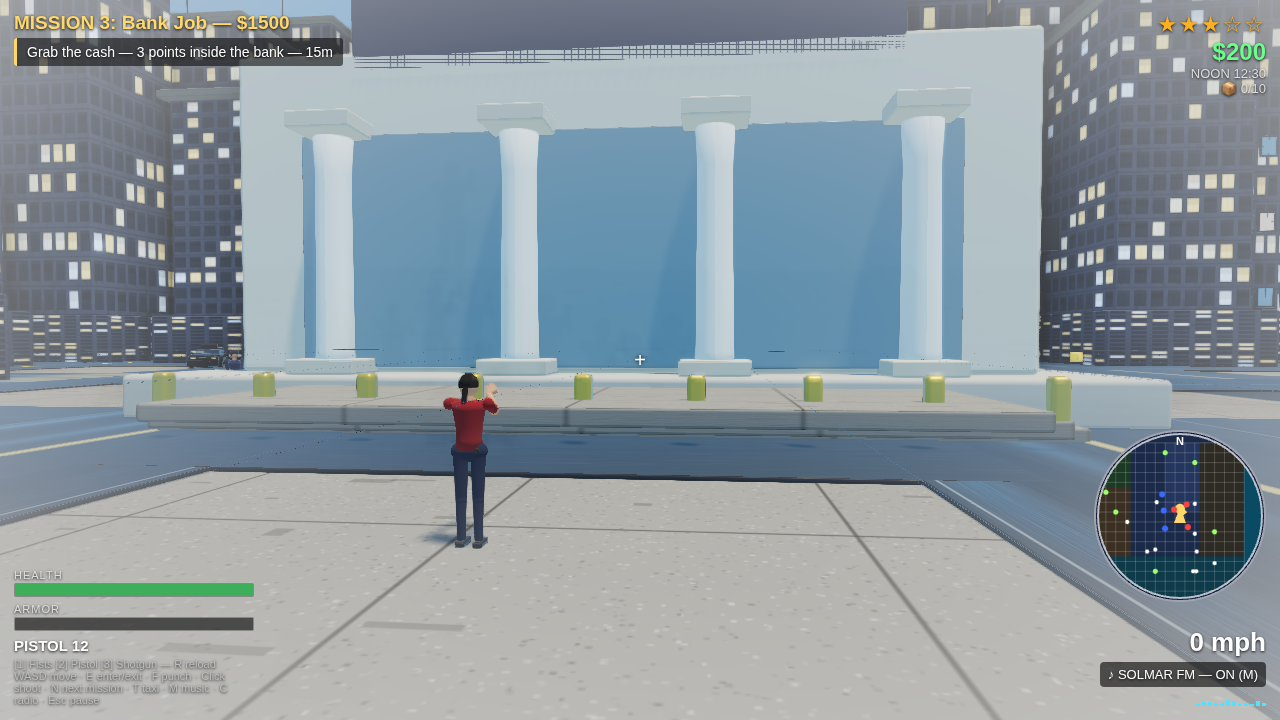
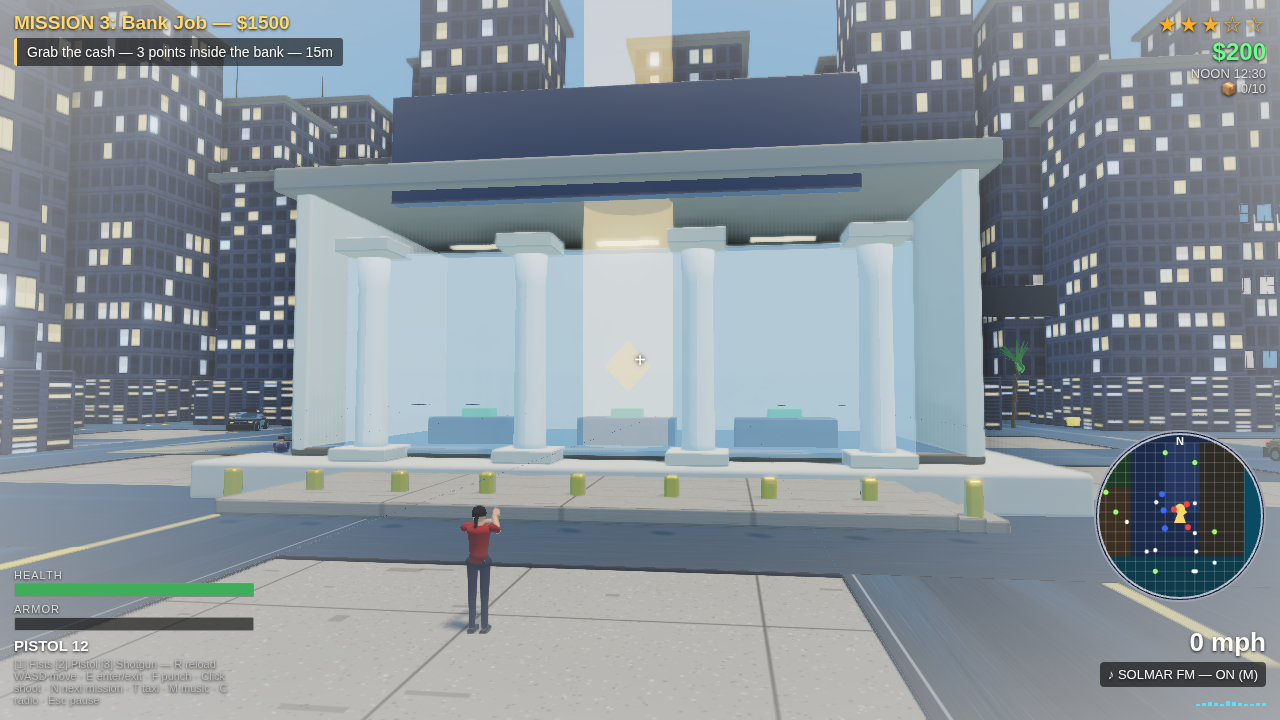
fix: equirect sky flipY, bank sign face depth, heist/night cameras

diff --git a/game/src/shots.js b/game/src/shots.js
@@ -51,8 +51,8 @@ export function stageShot(name, w) {
     w.combat.setWeapon('pistol');
     w.peds.scare(30, -12, 26);
     lookAt(camera,
-      new THREE.Vector3(30 + 3.5, 3.4, -12 + 9.5),
-      new THREE.Vector3(30, 4.6, -30));
+      new THREE.Vector3(30 + 4.0, 4.0, -12 + 11.0),
+      new THREE.Vector3(30, 5.2, -30));
     hud.toast('MISSION 3 — grab the cash');
   } else if (name === 'storm') {
     // Shot 3 — dusk rain, low chase cam behind the sports car drifting a wet
@@ -94,8 +94,8 @@ export function stageShot(name, w) {
     missions.beacon.visible = false;
     police.update(0.01, w.time, player, w.policeCallbacks);
     lookAt(camera,
-      new THREE.Vector3(30, 5.2, 146),
-      new THREE.Vector3(43, 1.4, 163));
+      new THREE.Vector3(34, 4.2, 150),
+      new THREE.Vector3(43, 1.2, 164));
     hud.setCenter('<div style="background:rgba(0,0,0,0.65);padding:10px 18px;border-radius:8px;color:#ffd76a;font-weight:bold">MISSION COMPLETE — +$3000 · SOLMAR LEGEND</div>');
   } else {
     w.staged = false;

diff --git a/game/src/city.js b/game/src/city.js
@@ -300,7 +300,9 @@ export function buildCity(scene, rng) {
   signBack.position.set(0, 11.4, 5.4); signBack.castShadow = true; bank.add(signBack);
   const signFace = new THREE.Mesh(new THREE.PlaneGeometry(14.6, 3.2),
     new THREE.MeshBasicMaterial({ map: signTex }));
-  signFace.position.set(0, 11.4, 5.68); bank.add(signFace);
+  // face must sit IN FRONT of the backbox front (extrude depth 0.5 + bevel
+  // 0.1 puts the front at ~z 6.0) or the text hides inside the box.
+  signFace.position.set(0, 11.4, 6.18); bank.add(signFace);
   neonMats.push(signFace.material);
   // steps + bollards
   for (let s = 0; s < 3; s++) {

diff --git a/game/src/lighting.js b/game/src/lighting.js
@@ -54,6 +54,9 @@ function skyCanvas(p) {
   const t = new THREE.CanvasTexture(c);
   t.colorSpace = THREE.SRGBColorSpace;
   t.mapping = THREE.EquirectangularReflectionMapping;
+  // equirect sky: canvas top is the zenith — do NOT flip (default flipY
+  // inverts the gradient and puts the pale horizon on top of the sky).
+  t.flipY = false;
   return t;
 }
 
